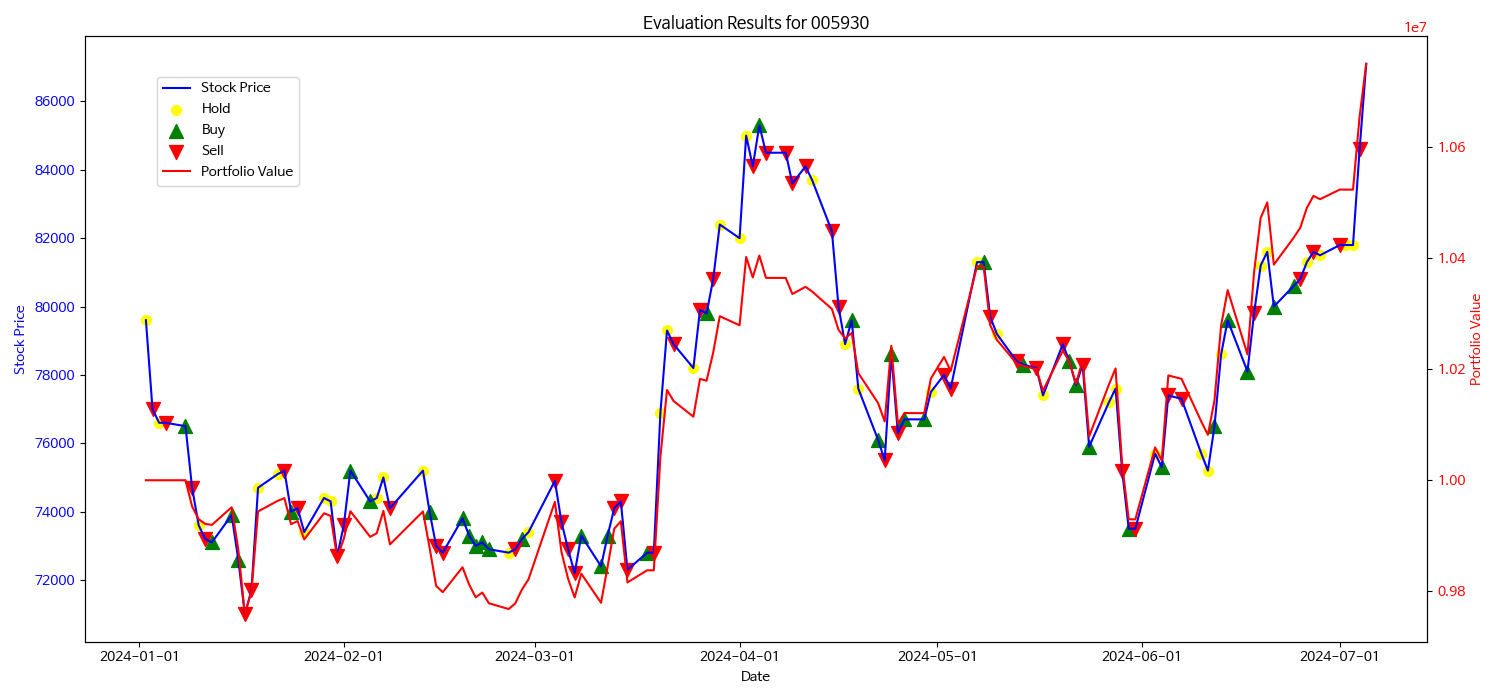
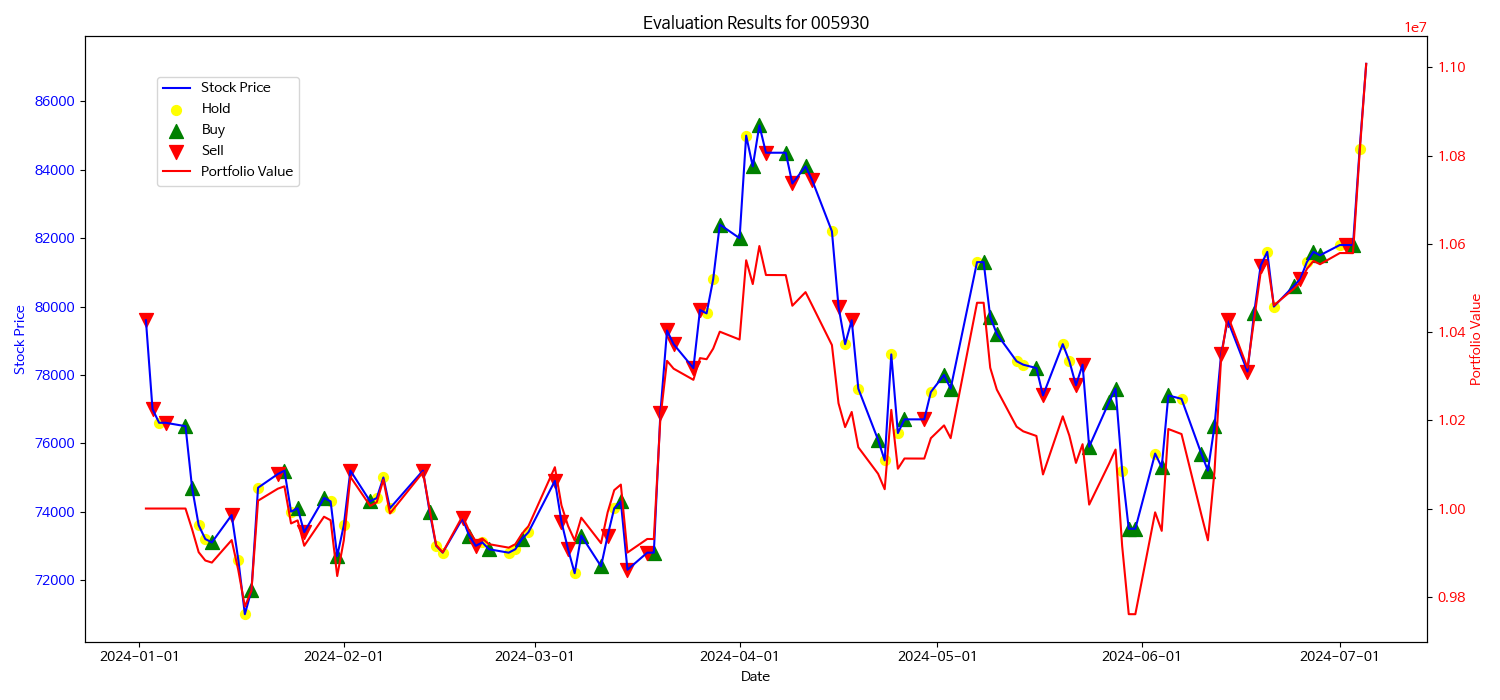
캘리 공식 반영

diff --git a/source/2024_workshop/stock_trading_env.py b/source/2024_workshop/stock_trading_env.py
@@ -27,16 +27,24 @@ class StockTradingEnv:
             self.df.iloc[self.current_step]['High'],
             self.df.iloc[self.current_step]['Low']
         ])
-        
+    
     def step(self, action):
         current_price = self.df.loc[self.current_step, 'Close']
         self.current_step += 1
         done = self.current_step == self.total_steps
 
+        # Kelly Criterion parameters (example values, these should be based on your model/strategy)
+        b = 1  # Example: 100% expected return
+        p = 0.6  # Example: 60% chance of winning (price going up)
+        q = 1 - p
+
+        # Calculate the optimal fraction to invest using Kelly Criterion
+        f_star = (b * p - q) / b
+
         if action == BUY:
-            # Calculate the amount of balance to be used (20% of available balance)
-            balance_to_use = self.balance * 0.20
-            shares_to_buy = balance_to_use // current_price
+            # Calculate the amount of balance to be used according to Kelly Criterion
+            balance_to_use = self.balance * f_star
+            shares_to_buy = int(balance_to_use // current_price)
             cost = shares_to_buy * current_price
             commission = cost * self.commission_rate
             total_cost = cost + commission
@@ -46,7 +54,7 @@ class StockTradingEnv:
                 self.shares_held += shares_to_buy
             else:
                 # Fallback to use the available balance
-                shares_to_buy = self.balance // current_price
+                shares_to_buy = int(self.balance // current_price)
                 cost = shares_to_buy * current_price
                 commission = cost * self.commission_rate
                 total_cost = cost + commission
@@ -55,19 +63,57 @@ class StockTradingEnv:
 
         elif action == SELL:
             if self.shares_held > 0:
-                # Calculate the maximum shares to sell (20% of shares held) and convert to integer
-                shares_to_sell = int(self.shares_held * 0.20)
+                # Calculate the maximum shares to sell according to Kelly Criterion
+                shares_to_sell = int(self.shares_held * f_star)
                 sale_value = shares_to_sell * current_price
                 commission = sale_value * self.commission_rate
 
                 self.balance += sale_value - commission
                 self.shares_held -= shares_to_sell
-
-
         # HOLD action does nothing
-
         reward = (self.balance + self.shares_held * current_price - self.initial_balance) / self.initial_balance
         return self._get_observation(), reward, done, {}
+    
+
+    # 최대 10% 만 매매 하게
+    # def step(self, action):
+    #     current_price = self.df.loc[self.current_step, 'Close']
+    #     self.current_step += 1
+    #     done = self.current_step == self.total_steps
+
+    #     if action == BUY:
+    #         # Calculate the amount of balance to be used (20% of available balance)
+    #         balance_to_use = self.balance * 0.10
+    #         shares_to_buy = balance_to_use // current_price
+    #         cost = shares_to_buy * current_price
+    #         commission = cost * self.commission_rate
+    #         total_cost = cost + commission
+
+    #         if total_cost <= self.balance:
+    #             self.balance -= total_cost
+    #             self.shares_held += shares_to_buy
+    #         else:
+    #             # Fallback to use the available balance
+    #             shares_to_buy = self.balance // current_price
+    #             cost = shares_to_buy * current_price
+    #             commission = cost * self.commission_rate
+    #             total_cost = cost + commission
+    #             self.balance -= total_cost
+    #             self.shares_held += shares_to_buy
+
+    #     elif action == SELL:
+    #         if self.shares_held > 0:
+    #             # Calculate the maximum shares to sell (20% of shares held) and convert to integer
+    #             shares_to_sell = int(self.shares_held * 0.10)
+    #             sale_value = shares_to_sell * current_price
+    #             commission = sale_value * self.commission_rate
+
+    #             self.balance += sale_value - commission
+    #             self.shares_held -= shares_to_sell
+
+    #     # HOLD action does nothing
+    #     reward = (self.balance + self.shares_held * current_price - self.initial_balance) / self.initial_balance
+    #     return self._get_observation(), reward, done, {}
 
     def backtest(self, model):
         self.reset()
